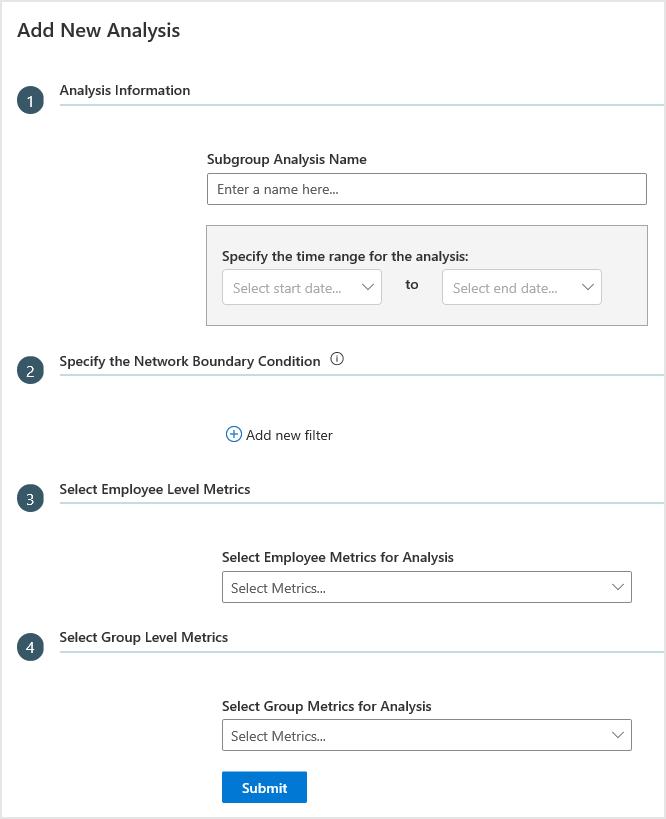
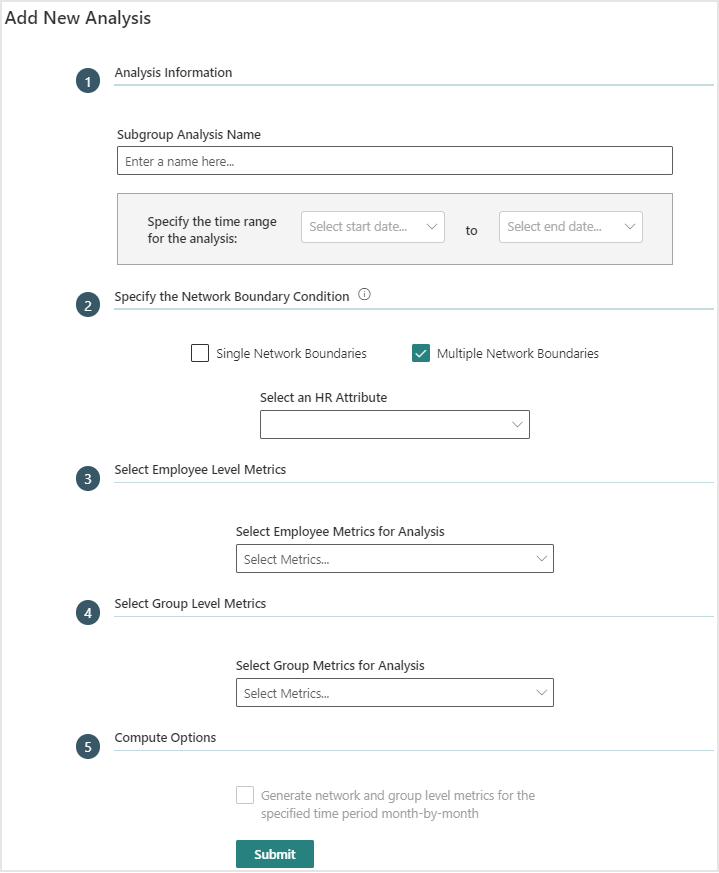
AzT doc edits
for next week's new release

diff --git a/WorkplaceAnalytics/azure-templates/release-notes.md b/WorkplaceAnalytics/azure-templates/release-notes.md
@@ -19,24 +19,54 @@ Azure templates for Workplace Analytics will continue to develop new templates a
 
 ## March 2020
 
-The following new template features, enhancements, and changes are in this month's release.
+The following new template and template features, enhancements, and changes are in this month's release.
+
+### Join Datasets Azure Template
+
+The new Join Datasets Template enables you to securely join, group, and aggregate data exported from Workplace Analytics with other third-party data sources, such as sensitive, personnel data or HR data that you want to combine and analyze. This template enforces the same data privacy settings that you set in Workplace Analytics, such as minimum group size, data exclusions, and other privacy settings. Note, this template requires the HR manager to upload additional identifier data into Workplace Analytics during the HR data upload process.
+
+To learn more, see [Join Datasets Azure Template](./join-datasets.md).
 
 ### Process Explorer Azure Template
 
-* **Email Thread Analysis** - You can skip categorizing the full dataset and focus on email activity for a filtered dataset. Use [Email Thread Analysis](./process-explorer.md#email-thread-analysis) to analyze email activity for a dataset that's filtered for a specific time period and for a specific group within a dataset. The time ranges and filter options are the same as what's available for categorization analysis.
-* **Time Spent on Category** - After the full dataset is categorized, you can view time spent on specific categories in the **Time Spent on Category** section below the **Category Distribution** section. The following is available with the chart:
+* **Email Thread Analysis** - You can skip categorization and focus on email analysis. Analysts can use [Email Thread Analysis](./process-explorer.md#email-thread-analysis) to quickly access information about email activity throughout the organization, without manually categorize email beforehand. The time ranges and filter options are the same as what's available for categorization analysis. An email thread includes a sent email and all its succeeding replies. This automated analysis includes the number of email threads, total emails sent, distinct touchpoints, hours of email workload, a number of thread averages, and more thread details in a downloadable table.
+* **Time Spent on Category** - After categorizing a dataset, you can view time spent on specific categories in the **Time Spent on Category** section below the **Category Distribution** section of the dashboard. The following is available with this chart view:
 
   * **Hours on Topic** - Shows the total number of hours spent based on the filters selected for the chart data, including the selected topics (categories) and communication types (all, email, or meeting activity) that have been categorized for the dataset for the selected period of time.
-  * **Topic Filter** - Select a specific topic to focus the chart on. The default is **All**, which shows all categories available in the dataset.
+  * **Topic Filter** - Select a specific topic to focus the chart on. The default is **All**, which shows all categories used in the dataset.
   * **Communication Filter** - Select to filter the chart to view only email or meeting activity. The default is **All**, which shows all email and meeting activity that was categorized in the dataset.
   * **Time Filter** - Select what period of time you want to see chart data for, such as last month, last quarter, last six months, or last year. The default is **All**, which shows all time periods available in the dataset.
 
-* **Aggregate list of email and meetings** - When you use the query builder to get a list of email or meetings to categorize, the list now aggregates email or meetings with the same subject into one line in the list, so you can categorize them all at the same time. The new **Frequency** column shows how many meetings or emails have the same subject.
+* **Aggregated subject list for categorizing email and meetings** - When categorizing email or meetings, the list now aggregates email or meetings with the same subject into one line in the list, so you can categorize them all at the same time. The new **Frequency** column shows how many meetings or emails have the same subject.
+* **Classify on raw data only** - To simplify dataset classifications, the option to only use meeting query data to analyze and categorize is no longer available. Classify on raw data, such as blob storage, is the only dataset option moving forward.
+
+To learn more, see [Process Explorer Azure Template](./process-explorer.md).
+
+### Organizational Network Analysis (ONA) Azure Template
+
+* **Microsoft Teams signals** - You can now include Teams call and chat activity in your network analysis. This activity only includes unscheduled Teams calls to avoid overlap counts with meeting activity.
+* **Multiple network boundaries analysis** - You can now analyze all values for a specific HR attribute by selecting **Multiple Network Boundaries**. After the analysis runs, you can download it as a .csv file for further analysis.
+* **Graph view update** - For graph views, the link thickness and color darkness are now set on by default. The line thickness and color darkness are based on how much time was spent between groups, where the thickest and darkest links are the ones with the most time spent between groups. You can change these defaults in Settings within the graph view.
+* **New color-by graph options** - For graph view, you can now select specific metrics to color the graph by, such as by degrees, influence index, bridging index, and boundary spanning. The resulting graph will have nodes colored by using a heatmap gradient with the following color scheme. Note that this color-by option is unavailable in Combined View.
+
+  * The lowest values on one end of the spectrum show as *light yellow*.
+  * The highest values on the opposite end show as *bright red*.
+  * The nodes representing values in the middle show as variations of *orange*.
+
+* **100K node support** - The graph view now supports 100K nodes with the Combined View option.
+* **Density table view improvements** - New labels available for the sender and receiver of communications within the Density table view. New breadcrumbs show at the top to improve navigation.
+* Modularity Normalization
+* **Normalized metrics** - The modularity metrics are now normalized throughout ONA.
+
+To learn more, see [Organizational Network Analysis Azure Template](./organization-network-analysis.md).
 
 ### Deploy and Configuration updates
 
-* New UX changes incorporated into the [Deployment steps](./deploy-configure.md#deployment).
-* New **API User** and **Data Owner** roles and **Scenario** options when adding users of the templates. See [Add users and assign roles](./deploy-configure.md#add-users-and-assign-roles) for details.
+* **New UX changes** incorporated into the [Deployment steps](./deploy-configure.md#deployment).
+* New **API User** and **Data Owner** roles and **Scenario** options available when adding users for these templates. See [Add users and assign roles](./deploy-configure.md#add-users-and-assign-roles) for details.
+* **Token-based authentication** - Azure Templates that are based on APIs now support token-based authentication. You can now use third-party reference apps to consume the metrics from an API-based Azure Templates.
+
+To learn more, see [Deploy and configure Workplace Analytics Azure Templates](./organization-network-analysis.md).
 
 ## January 2020
 
@@ -44,7 +74,7 @@ The following new template enhancements and changes are in this month's release.
 
 * The **Job Details** information for datasets now includes an **Error Message** column (last on the right) with more information about dataset failures for both the Organizational Network Analysis and the Process Explorer Azure Templates.
 
-### Organizational Network Analysis Template
+### Organizational Network Analysis Azure Template
 
 * A new **Download interaction matrix** option to download a .csv file with the person interactions and related data, such as date range and connection weights by hours and counts.
 * When viewing Density graph data, the higher density (*orange*) and lower density (*blue*) cells are highlighted based on the modularity. The color indicates whether or not a group is more or less connected in the network, as compared to what's expected with a random network. See [Density](./organization-network-analysis.md#density) for more details.

diff --git a/WorkplaceAnalytics/azure-templates/process-explorer.md b/WorkplaceAnalytics/azure-templates/process-explorer.md
@@ -42,11 +42,11 @@ Use the following steps to add a blob storage dataset for analyzing meeting and 
 1. In Workplace Analytics Azure Templates, select **Process Explorer**.
 2. Select **Add New Dataset** (top right).
 3. In **Define Model Training Settings**, enter a dataset name, locate and select the path to the dataset, and select the time range to analyze. You can then optionally select any applicable filters to reduce the dataset to use to manually categorize for model training purposes, and then select **Submit**.
-4. The dataset upload takes a few minutes to complete depending on the size of the dataset. The name and source for the new dataset will show in the table with the following information and available actions.
+4. The dataset upload and initial model training takes a few minutes to complete depending on the size of the dataset. The name and source for the new dataset will show in the table with the following information and available actions.
 
-   * When the **Status** changes to a green check mark, you can select the dataset to view existing categorizations or add new categorizations.
+   * When the **Status** changes to a green check mark, you can select the dataset to view it for categorizations or analysis.
    * Select the **Job Details** (i) icon next to **Status** to view the job details.
-   * Select a table column heading, such as **Name** or **Submitted**, to sort by it.
+   * Select a table column heading, such as **Name** or **Submitted**, to sort the list by.
    * Select the **Parameters** icon to view the parameter details for a listed dataset.
    * Select the **Delete Dataset** (trashcan) icon to delete it from the list.
    * If the dataset fails with a **Status** of a red X, you can select the **Undo** icon to revert to the last successfully saved version of the dataset.
@@ -175,7 +175,7 @@ After the full dataset is categorized, you can view time spent on specific categ
 
 ## Email thread analysis
 
-You can skip categorizing the full dataset and focus on email activity for a filtered dataset. Use **Email Thread Analysis** to analyze email activity for a dataset that's filtered for a specific time period and for a specific group within a dataset. The time ranges and filter options are the same as what's available for categorization analysis.
+You can skip categorization and focus on automated email analysis. An email thread includes a sent email and all its succeeding replies. Use **Email Thread Analysis** to analyze email for a dataset that's filtered for a specific time period and for a specific group within a dataset. The time ranges and filter options are the same as what's available for categorization analysis.
 
 ### To view analysis for email threads
 
@@ -187,7 +187,7 @@ You can skip categorizing the full dataset and focus on email activity for a fil
 
 4. The dataset upload takes a few minutes to complete depending on the size of the dataset. The name and source for the new dataset will show in the table.
 5. When the **Status** changes to a green check mark, select the dataset name from the list, and then select **Email Thread Analysis**.
-6. You'll see top level analysis, thread averages, and thread metrics for the first 1,000 threads in the selected dataset.
+6. You'll see static summary information, including top level analysis, thread averages, and thread metrics for the first 1,000 threads in the selected dataset. In the **Thread Metrics** section, you can do the following.
 
    * Select **Download** to view data on what's selected, which is either the **Thread Summary** or **Thread Details**, in a .csv file for all email threads in the dataset.
    * Select **Copy Data** to copy a table view of the **Thread Summary** data. This option is not available for thread details.

diff --git a/WorkplaceAnalytics/azure-templates/organization-network-analysis.md b/WorkplaceAnalytics/azure-templates/organization-network-analysis.md
@@ -45,6 +45,9 @@ To focus your analysis on specific subgroups or compare graphs from different ti
 
    ![Add New Analysis](./images/ona-define-graph-settings.png)
 
+    >[!Note]
+    >You must select two or more HR attributes to analyze, so you have an attribute to "combine by" and one to "color by" for the graph.
+
 10. The graph is shown in the combined or grouped view by default based on what you selected in the previous step.
 
     >[!Note]
@@ -96,14 +99,14 @@ Subgroup analysis enables you to compare or focus your analysis on specific subg
 
    ![Add New Analysis](./images/ona-subgroup-analysis.png)
 
-3. Optionally, in **Specify the Network Boundary Condition**, select one or more filters to focus your analysis on.
+3. Optionally, in **Specify the Network Boundary Condition**, select either single or multiple network boundaries and one or more HR attributes to focus your analysis on.
 4. In **Select Employee Level Metrics**, select which employee level metrics, such as Boundary Spanning or Bridging Index to analyze in the graph.
 5. In **Select Group Level Metrics**, select the group HR attributes and group metrics to analyze in the combined or grouped view. See [Node Measures](#node-measures) for more details about these options, such as [Boundary spanning](#boundary-spanning) and [Influence Index](#influence-index).
 6. Select **Submit** to create the graph analysis. The system will process the analysis, which is complete when the Status changes to a green check mark.
 
 ## To view a saved graph
 
-1. On the **Organizational Network Analysis** page, select the name of the dataset in the table, and then select the name of the graph in the table.
+1. On the **Organizational Network Analysis** page, select the name of the dataset in the table, and then select the name of the analysis in the table.
 2. At the top right of **Define Graph Settings**, select **Load Saved Graph**.
 3. Select the name of the graph that you want to view. If no analysis has been created, the subset list will be empty.
 4. Additional information and options on the analysis pages:

diff --git a/WorkplaceAnalytics/azure-templates/deploy-configure.md b/WorkplaceAnalytics/azure-templates/deploy-configure.md
@@ -121,7 +121,7 @@ As the Azure Templates Admin, you can use the Admin page to manage security, pri
   * Can access, use, and customize the same analytical templates and Power BI reports and dashboards as an Analyst.
   * Owns and can access and use incoming data to create datasets.
   * Can share access to data they own with other users.
-<!--* For the Join Datasets template, can share access to their joined datasets with other template users.-->
+  * For the [Join Datasets Azure Template](./join-datasets.md), can share access to their joined datasets with other template users.
 
 * **Data Scientist**
 
@@ -175,7 +175,7 @@ As an admin, you can configure template settings in **Admin** > **Configuration*
 
 * The minimum group size, maximum number of nodes and links in data analysis with the Organizational Network Analysis Azure Template.
 * If the Process Explorer Azure Template either surfaces and uses, or does not surface or use, email subjects in blob storage datasets to help train the model for categorization.
-<!--* Set the number of days to retain data created and saved as joined datasets with the **Join Datasets Template**.-->
+* Set the number of days to retain data created and saved as joined datasets with the **Join Datasets Template**.
 
 ## Audit logs
 
@@ -194,3 +194,4 @@ As an admin, you can audit user activity in **Admin** > **Logs**. Select the **i
 * [Organization Network Analysis Azure Template](./organization-network-analysis.md)
 * [Topic Analysis Azure Template](./topic-analysis.md)
 * [Process Explorer Azure Template](./process-explorer.md)
+* [Join Datasets Azure Template](./join-datasets.md)

diff --git a/WorkplaceAnalytics/azure-templates/overview.md b/WorkplaceAnalytics/azure-templates/overview.md
@@ -25,6 +25,7 @@ You can easily customize them to meet your unique organizational needs, includin
   * [Organization Network Analysis Azure Template](./organization-network-analysis.md)
   * [Topic Analysis Azure Template](./topic-analysis.md)
   * [Process Explorer Azure Template](./process-explorer.md)
+  * [Join Datasets Azure Template](./join-datasets.md)
 
 * **Analytic framework support**: Enables you to merge Workplace Analytics query output with other [Azure data sources](https://docs.microsoft.com/azure/index) outside of Workplace Analytics (such as with Azure Blob storage, Azure SQL Database, Azure Databricks, and Azure Analysis Services) for custom metric calculations, advanced and interactive visuals, and automated data management.
 
@@ -54,3 +55,4 @@ As shown in the graphic, Workplace Analytics Azure Templates work with the follo
 * [Organization Network Analysis Azure Template](./organization-network-analysis.md)
 * [Topic Analysis Azure Template](./topic-analysis.md)
 * [Process Explorer Azure Template](./process-explorer.md)
+* [Join Datasets Azure Template](./join-datasets.md)
